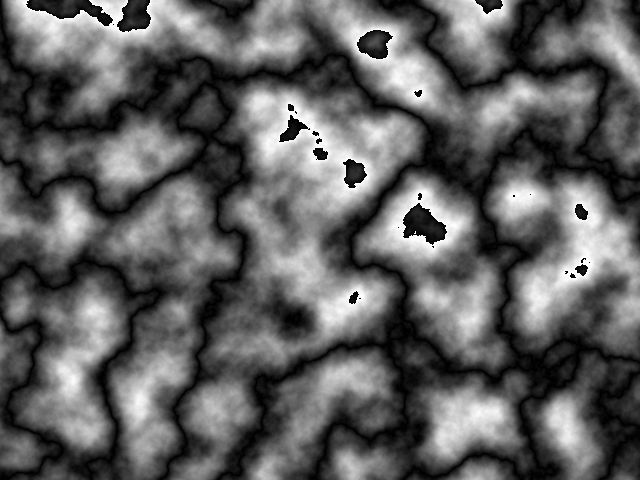
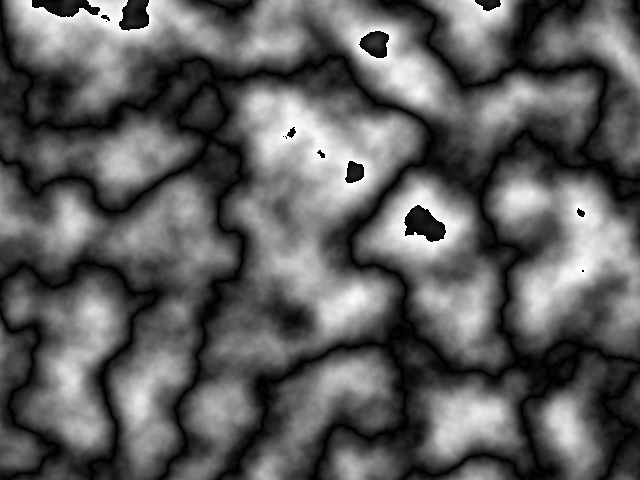
Added somewhat smooth rendering.

diff --git a/src/main/java/sebdem/nouvis/states/GameState.java b/src/main/java/sebdem/nouvis/states/GameState.java
@@ -1,15 +1,13 @@
 package sebdem.nouvis.states;
 
-import java.awt.Rectangle;
-
 import sebdem.nouvis.app.NouvisApp;
 import sebdem.nouvis.datastructs.Vec2;
 import sebdem.nouvis.graphics.ISprite;
 import sebdem.nouvis.graphics.NouvGraphics;
-import sebdem.nouvis.utils.RandomUtils;
 import sebdem.nouvis.world.Camera;
 import sebdem.nouvis.world.Tile;
 import sebdem.nouvis.world.TileRegistry;
+import sebdem.nouvis.world.TileTerrainData;
 import sebdem.nouvis.world.WorldSpace;
 import sebdem.nouvis.world.generation.WorldGenerator;
 
@@ -25,8 +23,12 @@ public class GameState implements IGState {
 	public GameState()
 	{ 
 		tiles = NouvisApp.tiles;
-		camera = new Camera(new Vec2(5,5), new Vec2(48,27));
+		//camera = new Camera(new Vec2(5,5), new Vec2(48,27));
 		world = new WorldGenerator(233423).generate();
+		//world = new WorldSpace();
+		//int[][] map = {{1,2,2},{1,1,2},{3,1,1}};
+		//world.terrain = TileTerrainData.fromArray(map);
+		camera = new Camera(new Vec2(3,3), new Vec2(48,27));
 	}
 
 	public int updateFrequency() {
@@ -35,33 +37,40 @@ public class GameState implements IGState {
 
 	public void update(long elapsedTime)
     {
-		this.camera.position.addTo(((float)Math.random() - 0.5f) * 0.25f, ((float)Math.random() - 0.5f) * 0.25f);
+		//this.camera.position.addTo(((float)Math.random() - 0.5f), ((float)Math.random() - 0.5f));
+		this.camera.position.addTo(0.125f,0);
     }
-	
+
+	Vec2 tilescale = new Vec2(32f,32f);
 	public void draw(NouvGraphics g) {
 		int[][] tileids = world.terrain.getTile(camera.position, camera.bottomRight());
-	
+		
 		Vec2 offset = camera.position.intOffset();
-		//System.out.println("Position: " +camera.position.toString() + "; Int: "+intPos+"; Offset: " + offset.toString());
-		Vec2 drawPos = offset.copy();
-		for(int ty = 0; ty < tileids.length; ty++){
-			drawPos.y = ((ty * 32) - offset.y);
-			for(int tx = 0; tx < tileids[ty].length; tx++){
-				Tile t = tiles.get(tileids[ty][tx]);
-				drawPos.x = ((tx * 32) - offset.x); 
-				if (t != null){
 
-					ISprite s = t.getSprite(world, camera.position.addNew(tx, ty));
-					System.out.println(drawPos);
-					g.draw(s, drawPos, new Vec2(32,32));
-					
+		Vec2 drawPos = offset.copy();
+		Tile tile;
+		ISprite s = null;
+		for(int ty = 0; ty < tileids.length; ty++){
+			drawPos.y = ((ty- offset.y)* tilescale.y);
+
+			for(int tx = 0; tx < tileids[ty].length; tx++){
+				tile = tiles.get(tileids[ty][tx]);
+				drawPos.x = ((tx- offset.x)* tilescale.x); 
+
+				if (tile != null){
+					s = tile.getSprite(world, camera.position.addNew(tx, ty));
+					g.draw(s, drawPos, tilescale);
 				}
 			}	
 		}
-		
+		tile = null;
+		s = null;
+		drawPos = null;
+		offset = null;
+		tileids = null;
 //		g.drawString("EmptyState " + etime, 20 + positionx, g.getFont().getSize() / 2 + screen.renderedImage.getHeight() / 2 );
 //		g.drawString("If you see this, an Error may have occurred", 20 + positionx, g.getFont().getSize() * 2 + screen.renderedImage.getHeight() / 2 );
-//		g.dispose();
+		g.dispose();
 	}
  
     public void onEnter()

diff --git a/src/main/java/sebdem/nouvis/world/Tile.java b/src/main/java/sebdem/nouvis/world/Tile.java
@@ -98,59 +98,6 @@ public class Tile {
 	{
 		this.connectsTo = connectsTo;
 	}
-
-
-
-
-	public static void main(String[] args) throws IOException{
-
-		Timer timer = new Timer();
-		timer.start();
-		TileRegistry registry = null;
-		try{
-			registry = new TileRegistry();
-		} catch(Exception e){
-			e.printStackTrace();
-		}
-		timer.end();
-		System.out.println("Finished terrain generation: " + timer.asMilli() + " ms");
-		
-
-		timer.start();
-		WorldSpace w = new WorldGenerator(233423).generate();
-		timer.end();
-		System.out.println("Finished terrain generation: " + timer.asMilli() + " ms");
-		
-		
-
-		timer.start();
-		BufferedImage[][] output1 = new BufferedImage[w.terrain.height][];
-		
-		ISprite s = null;
-		for(int y = 0; y < w.terrain.height;y++){
-			BufferedImage[] output2 = new BufferedImage[w.terrain.width];
-			for(int x = 0; x < w.terrain.width;x++){
-				
-				s = registry.get(
-							w.terrain.getTile(x, y)
-							).getSprite(w, new Vec2(x,y)
-									);
-				output2[x] = s.get();
-			}
-			output1[y] = output2;
-		}
-		timer.end();
-		System.out.println("Finished sprite calculation: " + timer.asMilli() + " ms");
-		
-
-		timer.start();
-		ImageIO.write(ImageUtils.fuse(output1), "png", new File( "metatest/terrain_test.png"));
-		timer.end();
-		System.out.println("Finished fusing sprites: " + timer.asMilli() + " ms");
-		
-		System.out.println("Habe Fertig.");
-	}
-	
 	
 	
 	public ISprite getSprite(WorldSpace world, Vec2 inWorldPosition)

diff --git a/src/main/java/sebdem/nouvis/graphics/NouvGraphics.java b/src/main/java/sebdem/nouvis/graphics/NouvGraphics.java
@@ -58,11 +58,12 @@ public class NouvGraphics {
 		draw(sprite, position.createRectSize(sprite.getDim()).getBounds());
 	}
 	public void draw(ISprite sprite, Vec2 position, Vec2 size) {
+		//System.out.println("\t\t"+(int)Math.floor(position.x) + "/" +(int)Math.floor(position.y));
 		graph.drawImage(sprite.get(), 
-				(int)Math.floor(position.x), 
-				(int)Math.floor(position.y), 
-				(int)Math.floor(size.x), 
-				(int)Math.floor(size.y),  null);
+				(int)Math.ceil(position.x), 
+				(int)Math.ceil(position.y), 
+				(int)Math.ceil(size.x), 
+				(int)Math.ceil(size.y),  null);
 	}
 	public void draw(ISprite sprite, Vec2 position, Color tint) {
 		draw(sprite, position.createRectSize(sprite.getDim()).getBounds(), tint);

diff --git a/src/main/java/sebdem/nouvis/app/NouvisApp.java b/src/main/java/sebdem/nouvis/app/NouvisApp.java
@@ -64,7 +64,7 @@ public class NouvisApp extends JFrame implements Runnable{
 		setLocationRelativeTo(null);
 		
 		// Fullscreen implementation ....
-		if(true){
+		if(false){
 			this.setExtendedState(JFrame.MAXIMIZED_BOTH); 
 			this.setUndecorated(true);
 			GraphicsDevice display = GraphicsEnvironment.getLocalGraphicsEnvironment().getDefaultScreenDevice();
@@ -144,7 +144,7 @@ public class NouvisApp extends JFrame implements Runnable{
 		
 		//graphic.fill(new Color(0,0,0), screen );
 		//graphic.draw(logo, new Rectangle(0,0, 640, 128));
-
+		graphic.fill(Color.black, screen);
 		this.gameStates.draw(graphic);
 //		
 //		Random r = new Random(1234);
